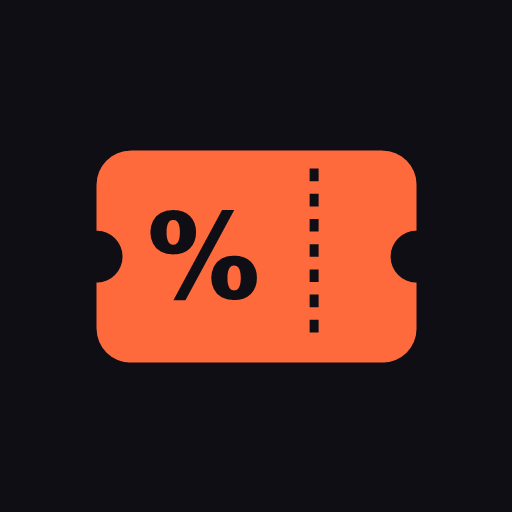
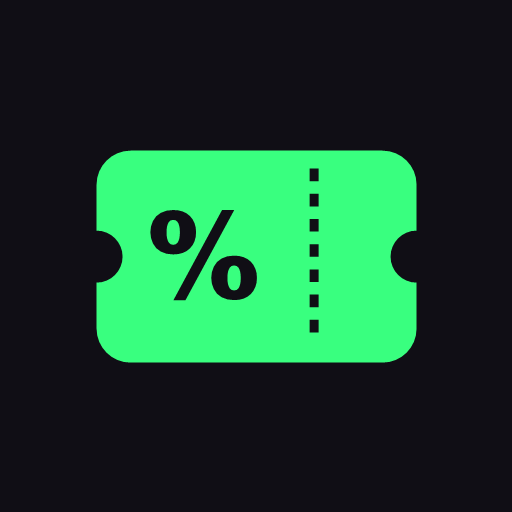
Color verde fosforescente y recordatorio de copia solo en Ajustes

Changed region(s): [[0.1875, 0.2812, 0.8125, 0.7188]]

diff --git a/index.html b/index.html
@@ -25,10 +25,10 @@
   --line: #363042;
   --fg: #f3f0f7;
   --muted: #a7a0b4;
-  --accent: #ff6a3d;
-  --accent-ink: #1c0d06;
-  --ok: #43d197;
-  --ok-bg: rgba(67, 209, 151, .14);
+  --accent: #39ff7f;
+  --accent-ink: #04210f;
+  --ok: #5ccfff;
+  --ok-bg: rgba(92, 207, 255, .14);
   --warn: #ffb950;
   --warn-bg: rgba(255, 185, 80, .14);
   --danger: #ff6b6b;
@@ -39,8 +39,8 @@
 @media (prefers-color-scheme: light) {
   :root {
     --bg: #f4f2f7; --surface: #ffffff; --surface-2: #ece9f1; --line: #dbd6e2;
-    --fg: #17141d; --muted: #696374; --accent: #df4416; --accent-ink: #ffffff;
-    --ok: #10825a; --ok-bg: #def3e9; --warn: #9d5e06; --warn-bg: #fbeed6; --danger: #c9302c;
+    --fg: #17141d; --muted: #696374; --accent: #00b84f; --accent-ink: #03200e;
+    --ok: #0a74a3; --ok-bg: #dcf0fa; --warn: #9d5e06; --warn-bg: #fbeed6; --danger: #c9302c;
     color-scheme: light;
   }
 }
@@ -183,6 +183,8 @@ input[type="date"].input::-webkit-calendar-picker-indicator { opacity: .7; }
 .nav button { background: none; border: 0; padding: 12px 4px 10px; font-size: 12px; font-weight: 600; color: var(--muted); display: flex; flex-direction: column; align-items: center; gap: 3px; }
 .nav button svg { width: 22px; height: 22px; fill: none; stroke: currentColor; stroke-width: 1.8; stroke-linecap: round; stroke-linejoin: round; }
 .nav button[aria-current="page"] { color: var(--accent); }
+.nav button { position: relative; }
+.nav button.aviso::after { content: ""; position: absolute; top: 9px; left: calc(50% + 8px); width: 8px; height: 8px; border-radius: 50%; background: var(--warn); }
 .fab { flex: 0 0 auto; border: 0; border-radius: 999px; background: var(--accent); color: var(--accent-ink); font-weight: 700; padding: 10px 16px; font-size: 14px; display: flex; align-items: center; gap: 6px; }
 
 /* Sheet */
@@ -258,7 +260,7 @@ input[type="date"].input::-webkit-calendar-picker-indicator { opacity: .7; }
   // Persisted data: { pct: number|null, eventos: [...], ultimaCopia: ISO|null }
   var data = { pct: null, eventos: [], ultimaCopia: null };
   var storageOk = true;
-  var VERSION = 8;
+  var VERSION = 9;
   var ui = { view: "fechas", filtro: "todas", rankBy: "entradas", pendingImport: null, editPct: null };
 
   var $main = document.getElementById("main");
@@ -327,6 +329,7 @@ input[type="date"].input::-webkit-calendar-picker-indicator { opacity: .7; }
       return (b.fecha || "").localeCompare(a.fecha || "") || (b.creado || "").localeCompare(a.creado || "");
     });
   }
+  function copiaPendiente() { return data.eventos.length > 0 && diasDesde(data.ultimaCopia) > 30; }
   function diasDesde(iso) { return iso ? (Date.now() - new Date(iso).getTime()) / 864e5 : Infinity; }
 
   // ---------- render ----------
@@ -342,9 +345,10 @@ input[type="date"].input::-webkit-calendar-picker-indicator { opacity: .7; }
       html += '<div class="banner">Este navegador no deja guardar datos (¿modo privado?). Abrí la app desde el ícono de inicio o desde Safari normal.</div>';
     } else if (data.pct == null && ui.view !== "ajustes") {
       html += '<div class="banner"><span>Configurá tu % de comisión para calcular lo que te deben.</span><button type="button" data-view="ajustes">Configurar</button></div>';
-    } else if (data.eventos.length >= 3 && diasDesde(data.ultimaCopia) > 30 && ui.view !== "ajustes") {
-      html += '<div class="banner"><span>' + (data.ultimaCopia ? "Hace más de un mes que no guardás una copia." : "Todavía no guardaste una copia de tus datos.") + '</span><button type="button" data-view="ajustes">Hacer copia</button></div>';
     }
+    // backup reminder lives in Ajustes; the tab shows a dot when a copy is due
+    var tabAjustes = document.querySelector('.nav [data-view="ajustes"]');
+    if (tabAjustes) tabAjustes.classList.toggle("aviso", copiaPendiente());
 
     if (ui.view === "fechas") html += viewFechas();
     else if (ui.view === "rendimiento") html += viewRendimiento();
@@ -539,6 +543,7 @@ input[type="date"].input::-webkit-calendar-picker-indicator { opacity: .7; }
     h += '<section class="card"><h2>Copia de seguridad</h2>' +
       "<p>Tus datos se guardan solo en este celular. Guardá una copia de vez en cuando (en Archivos o iCloud Drive) para no perderlos si borrás la app o cambiás de teléfono.</p>" +
       '<p>Última copia: <b>' + (data.ultimaCopia ? fechaCorta(data.ultimaCopia.slice(0, 10)) : "nunca") + "</b></p>" +
+      (copiaPendiente() ? '<div class="banner">' + (data.ultimaCopia ? "Hace más de un mes que no guardás una copia." : "Todavía no guardaste una copia de tus datos.") + "</div>" : "") +
       '<div class="row">' +
       '<button class="btn" type="button" data-action="export-json"' + (data.eventos.length ? "" : " disabled") + ">Guardar copia</button>" +
       '<label class="btn ghost file-btn">Restaurar copia<input type="file" id="import-file" accept=".json,application/json"></label>' +

diff --git a/sw.js b/sw.js
@@ -1,6 +1,6 @@
 // Offline support: the app shell is cached; same-origin requests go network-first so updates arrive,
 // Google Fonts are cache-first.
-var CACHE = "comisiones-v8";
+var CACHE = "comisiones-v9";
 var SHELL = ["./", "./index.html", "./manifest.webmanifest", "./icon-192.png", "./icon-512.png", "./apple-touch-icon.png"];
 
 self.addEventListener("install", function (e) {
